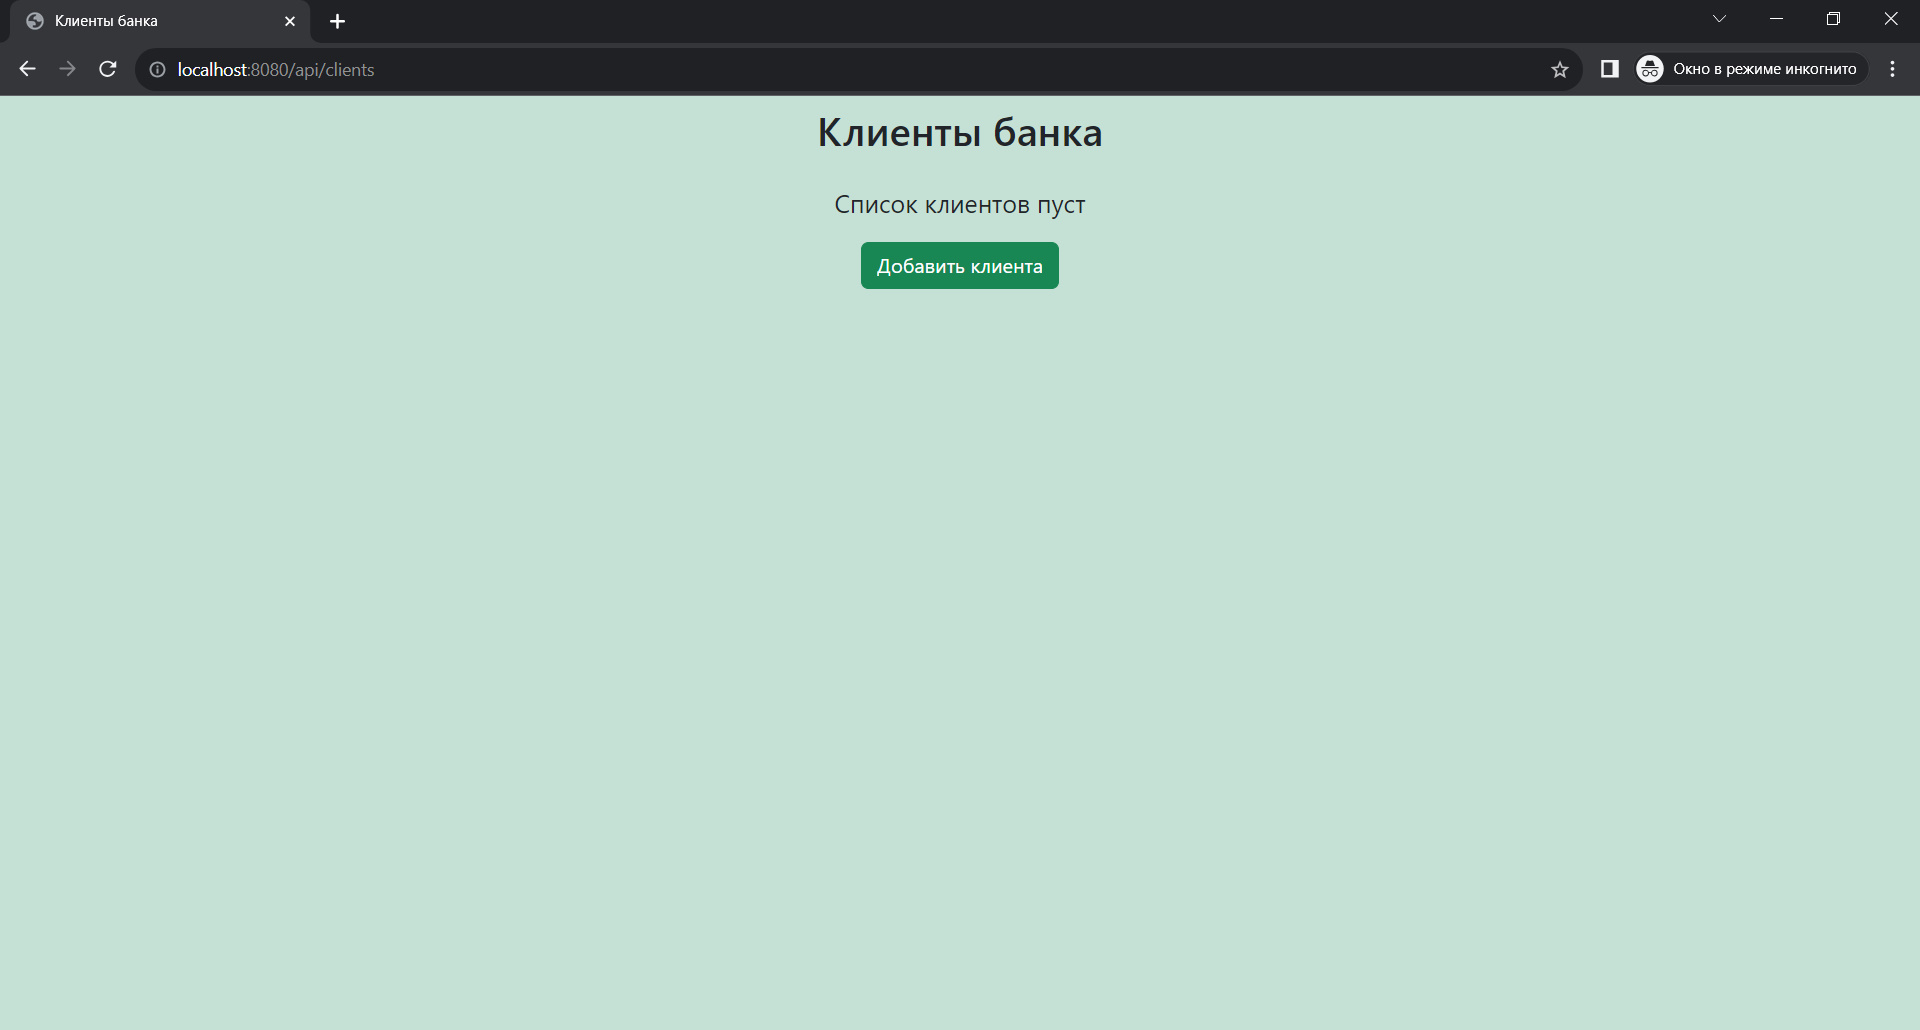
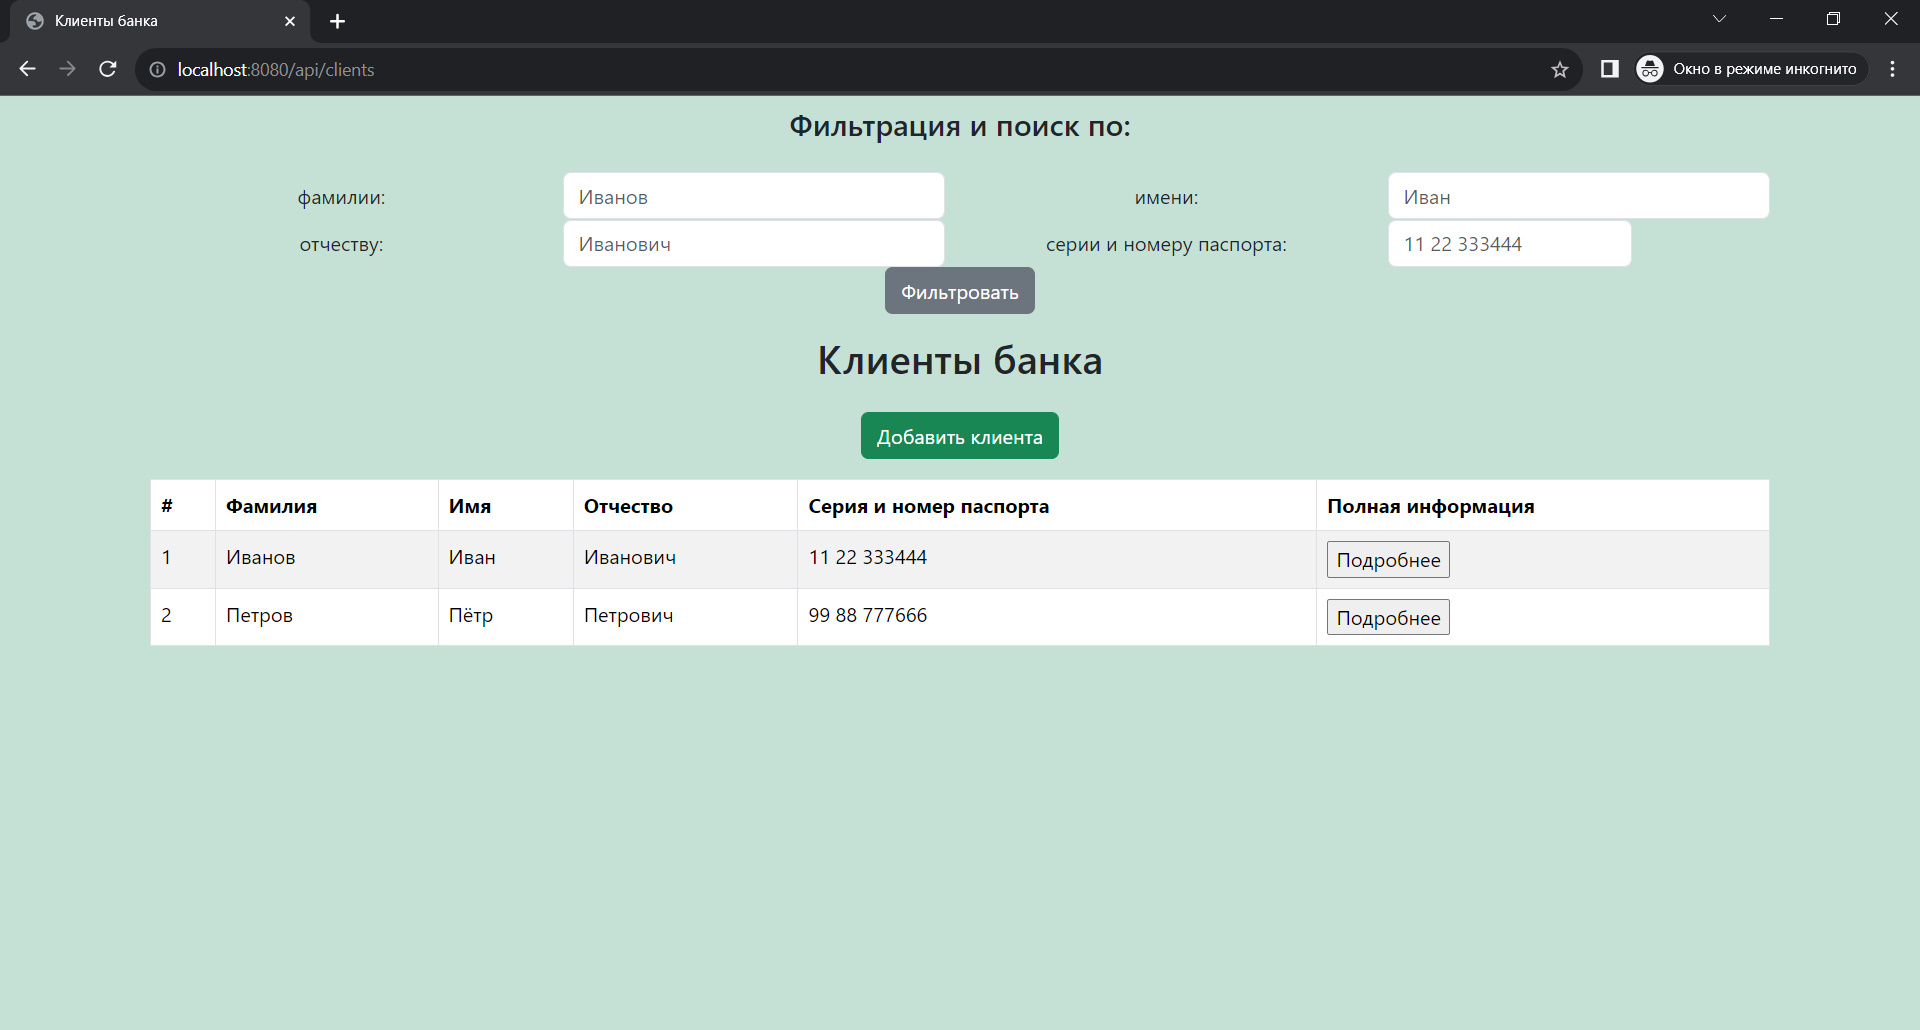
release: v1.2

diff --git a/README.md b/README.md
@@ -10,6 +10,7 @@
 - Открытие новых банковских счетов для клиентов;
 - Пополнение банковских счетов клиентов;
 - Снятие денег с банковских счетов клиентов;
+- Перевод денег между счетами клиента или на счёт другого клиента;
 - Закрытие существующих банковских счетов клиентов;
 - Прекращение клиентских отношений с банком.
 
@@ -46,16 +47,42 @@
 
 ### Список клиентов банка  
 
-Главной страницей веб-приложения является список клиентов банка. Она доступна по URL: http://localhost:8080/api/clients
-и имеет следующий вид:  
+Главной страницей веб-приложения является список клиентов банка. Эта страница доступна по следующему URL: 
+http://localhost:8080/api/clients и представлена следующим образом:  
 
 ![clients list](https://github.com/MicCchaelS/bank-web-app/blob/master/images/clients-list.jpg?raw=true)  
 
-Если список клиентов пуст, то страница будет выглядеть следующим образом:  
+На этой странице отображаются все клиенты банка. Для удобного поиска и фильтрации клиентов по различным параметрам 
+доступен соответствующий раздел "Фильтрация и поиск". Здесь вы можете ввести фамилию, имя, отчество или серию и номер 
+паспорта, в зависимости от того, какого клиента вы ищете. Пример поиска клиента по серии и номеру паспорта выглядит 
+следующим образом:  
+
+![client search](https://github.com/MicCchaelS/bank-web-app/blob/master/images/client-search.jpg?raw=true)  
+
+<details>
+  <summary>Правила валидации при фильтрации и поиске:</summary>
+
+- По фамилии:
+  - Необязательное поле;
+  - От 1 до 35 символов, только русские буквы, заглавная буква только первая (Пример: "Иванов").
+- По имени:
+  - Необязательное поле;
+  - От 1 до 35 символов, только русские буквы, заглавная буква только первая (Пример: "Иван").
+- По отчеству:
+  - Необязательное поле;
+  - От 1 до 35 символов, только русские буквы, заглавная буква только первая (Пример: "Иванович").
+- По серии и номеру паспорта:
+  - Необязательное поле;
+  - Только цифры;
+  - Только по серии ("11 22"), по номеру ("333444") или по серии и номеру ("11 22 333444").
+
+</details>
+
+Если список клиентов пуст, то страница будет выглядеть следующим образом:
 
 ![empty clients list](https://github.com/MicCchaelS/bank-web-app/blob/master/images/empty-clients-list.jpg?raw=true)  
 
-Также на эту страницу можно перейти, нажав кнопку "Список клиентов" в навигационной панели на любой 
+Кроме того, на эту главную страницу можно перейти, нажав кнопку "Список клиентов" в навигационной панели на любой 
 другой странице.  
 
 ### Добавление нового клиента  
